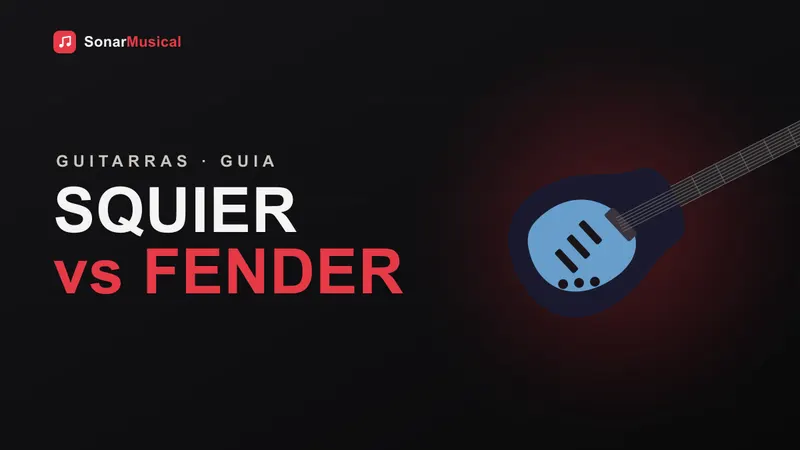
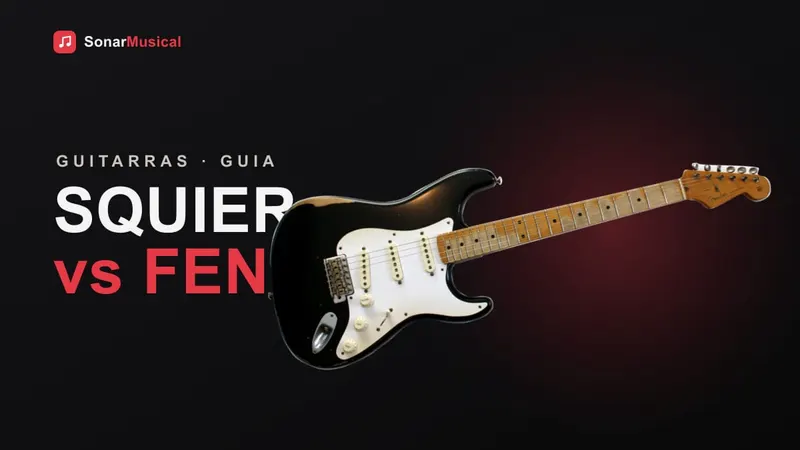
feat(capas): padrão de capa com produto real (foto CC) - converte squier-vs-fender
Nova diretriz: capas de produto usam foto real (CC/Wikimedia, creditada) em vez de
desenho. Squier vs Fender agora usa Strat Road Worn (CC BY 2.0, jboylan67), com
override de posição no gen-photo-covers. Primeiro de vários lotes.

Changed region(s): [[0.3125, 0.28, 1.0, 0.84]]

diff --git a/src/data/creditos.ts b/src/data/creditos.ts
@@ -299,6 +299,14 @@ export const CREDITOS_CAPAS: CreditoCapa[] = [
     fonteUrl: "https://commons.wikimedia.org/wiki/File:Fender_Coronado_II_1967_noBG.jpg",
   },
   {
+    descricao: "Fender Road Worn '50s Stratocaster (post: Squier vs Fender)",
+    autor: "jboylan67",
+    autorUrl: "https://www.flickr.com/photos/85661855@N00",
+    licenca: "CC BY 2.0",
+    licencaUrl: "https://creativecommons.org/licenses/by/2.0/deed.pt",
+    fonteUrl: "https://commons.wikimedia.org/wiki/File:Fender_Road_Worn_50s_relic_Stratocaster_(2009-01-17_08.54.55_by_irish10567)_transparency.png",
+  },
+  {
     descricao: "Fender Stratocaster (guia da Strinberg e outras)",
     autor: "Auge=mit",
     autorUrl: "https://commons.wikimedia.org/wiki/User:Auge%3Dmit",
